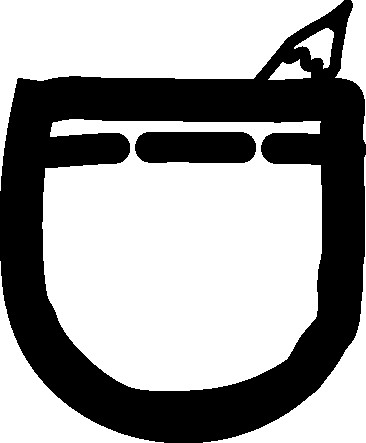
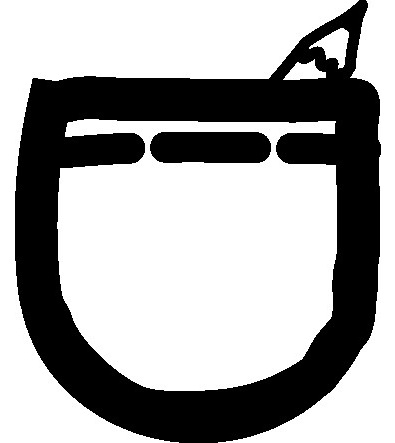
pocket sizing (cont.)

diff --git a/index.html b/index.html
@@ -26,7 +26,7 @@ The “head” section of a web page is where you put all of the information abo
 <body>
 
     <h1>P<img src="pocket.jpg" width="18">cket 
-    Pr<img src="pocket.jpg" width="17">jects 
+    Pr<img src="pocket.jpg" width="18">jects 
     </h1>
 
     <div class="topnav">
